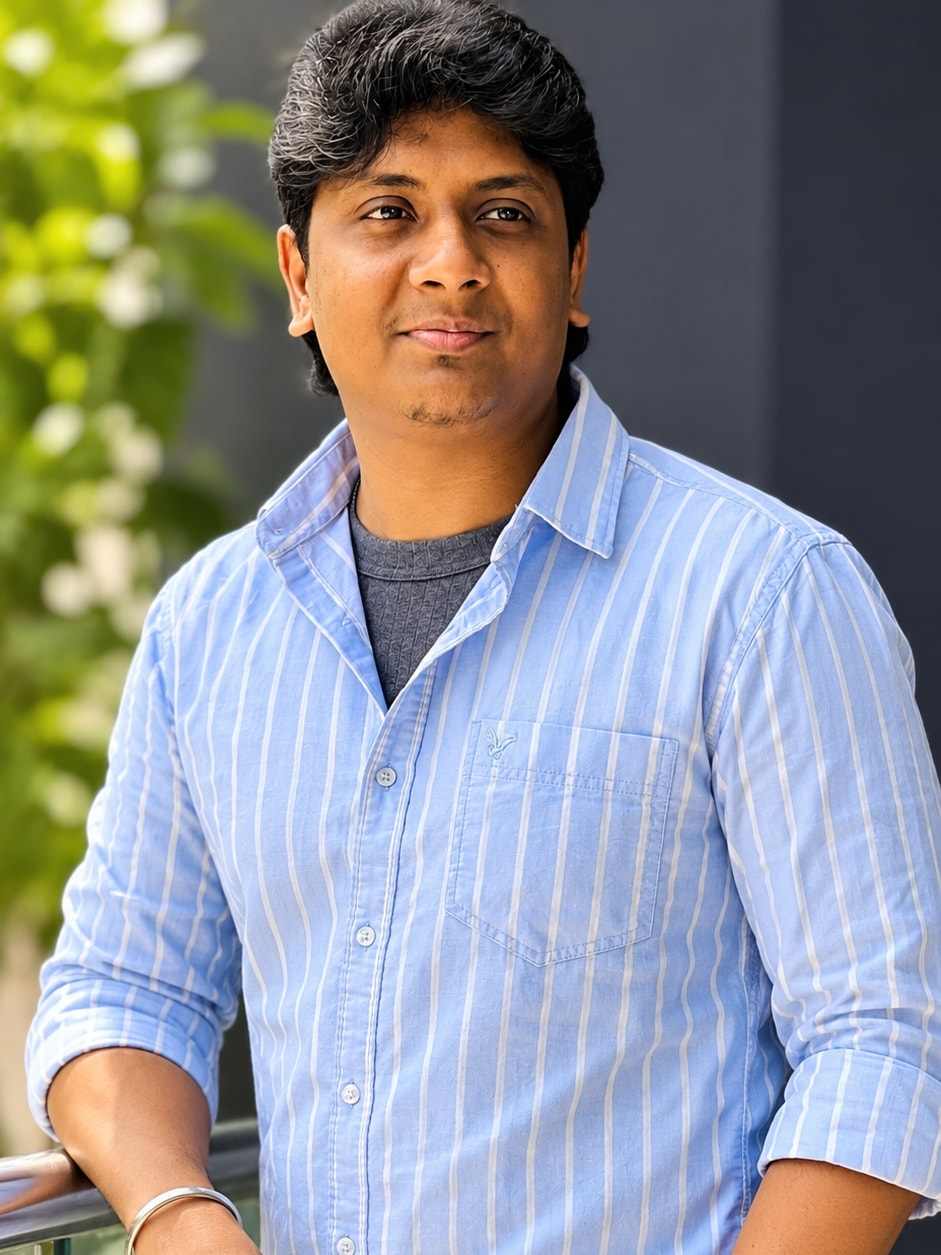
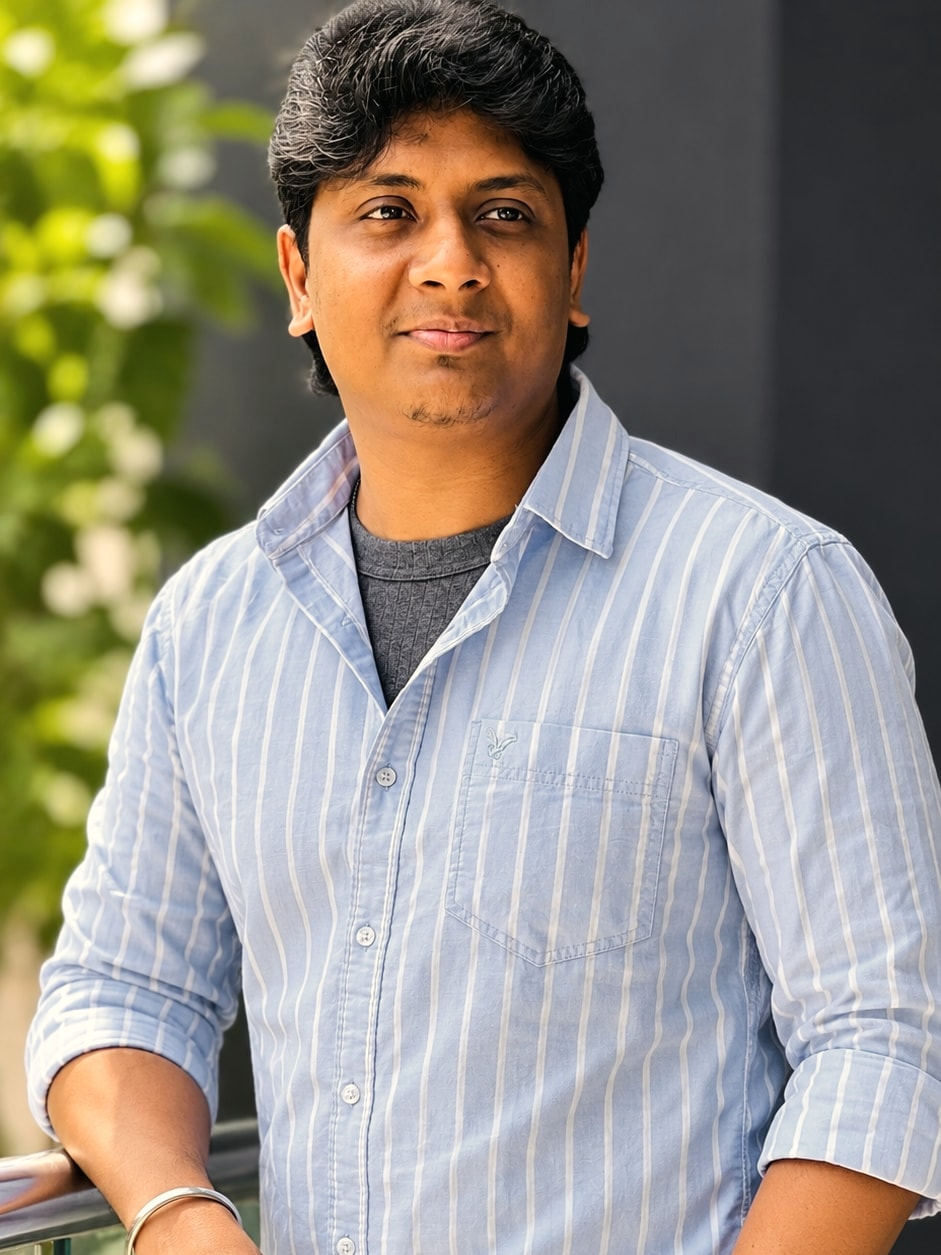
Polish: distinct light theme, serif accents, graded photo, fewer repeats
- Light theme gets its own look: sand hero with the photo in a tall
  card, white case-study cards, crimson contact panel and footer.
  Dark keeps the full-bleed deep green hero.
- Every section heading pairs a bold phrase with one Instrument Serif
  italic accent in crimson; bold headings are a touch lighter and less
  tight.
- Photo colour-graded only (blues softened, slight warmth, shadows
  toward the deep green); no retouching.
- Removed repeats: the second copy of the photo (now a journey card,
  Chennai to Phnom Penh to Chennai), the motto under How I work, the
  rating in the Toast Now card, the iOS skill chips, the hackathon line
  in Experience, and extra Get in touch / Copy email buttons.

Changed region(s): [[0.0308, 0.3108, 1.0, 1.0]]

diff --git a/src/styles/site.css b/src/styles/site.css
@@ -409,6 +409,7 @@ button {
 }
 .greeting {
   font-family: var(--serif);
+  font-style: italic;
   font-size: clamp(1.6rem, 2.6vw, 2.2rem);
   color: var(--accent-on-deep);
   line-height: 1.1;
@@ -419,9 +420,9 @@ button {
 .hero h1 .t {
   display: block;
   font-size: clamp(3.4rem, 8.6vw, 7.6rem);
-  font-weight: 700;
-  line-height: 0.95;
-  letter-spacing: -0.05em;
+  font-weight: 650;
+  line-height: 0.96;
+  letter-spacing: -0.042em;
 }
 .hero h1 .t > span {
   display: inline-block;
@@ -578,9 +579,9 @@ button {
 .head h2 .big {
   display: block;
   font-size: clamp(2.3rem, 4.8vw, 3.8rem);
-  font-weight: 700;
-  line-height: 1.05;
-  letter-spacing: -0.045em;
+  font-weight: 650;
+  line-height: 1.06;
+  letter-spacing: -0.038em;
 }
 .head .side {
   padding-top: 8px;
@@ -1467,9 +1468,8 @@ button {
   line-height: 0.95;
   letter-spacing: -0.06em;
 }
-.contact h2 .big .serif {
+.contact h2 .big .accent {
   color: var(--accent-on-deep);
-  font-size: 1.04em;
 }
 .contact .lead {
   margin-top: 24px;
@@ -1512,6 +1512,244 @@ footer .wrap {
   padding-top: 24px;
   padding-bottom: 34px;
   border-top: 1px solid rgba(255, 255, 255, 0.08);
+}
+
+/* Serif italic accent phrase inside headings */
+.accent {
+  font-family: var(--serif);
+  font-style: italic;
+  font-weight: 400;
+  font-size: 1.06em;
+  letter-spacing: -0.01em;
+  color: var(--accent-text);
+}
+.case .accent,
+.contact .accent {
+  color: var(--accent-on-deep);
+}
+
+/* Journey card (About) */
+.tile.journey {
+  grid-row: span 2;
+  min-height: 520px;
+  background: var(--deep);
+  border-color: transparent;
+  color: #f4f2ec;
+}
+.tile.journey .kicker {
+  color: var(--accent-on-deep);
+}
+.tile.journey .fig {
+  margin-top: 6px;
+  align-items: baseline;
+}
+.tile.journey .unit {
+  margin-left: 0.25em;
+  font-size: 0.32em;
+  font-weight: 500;
+  letter-spacing: 0;
+}
+.path {
+  margin-top: auto;
+  padding-left: 22px;
+  border-left: 1px solid rgba(244, 242, 236, 0.18);
+}
+.path li {
+  position: relative;
+  display: grid;
+  grid-template-columns: 64px 1fr;
+  gap: 12px;
+  padding: 14px 0;
+}
+.path li::before {
+  content: "";
+  position: absolute;
+  left: -27px;
+  top: 22px;
+  width: 9px;
+  height: 9px;
+  border-radius: 50%;
+  background: var(--deep);
+  box-shadow: inset 0 0 0 2px var(--accent-on-deep);
+}
+.path li:last-child::before {
+  background: var(--accent-on-deep);
+}
+.path time {
+  font-family: var(--serif);
+  font-size: 1.35rem;
+  line-height: 1.1;
+  color: var(--accent-on-deep);
+}
+.path b {
+  display: block;
+  font-weight: 700;
+}
+.path span {
+  font-size: 0.9rem;
+  color: rgba(244, 242, 236, 0.76);
+}
+@media (max-width: 980px) {
+  .tile.journey {
+    grid-column: span 2;
+    grid-row: auto;
+    min-height: 0;
+  }
+}
+@media (max-width: 600px) {
+  .tile.journey {
+    grid-column: auto;
+  }
+}
+
+/* Light theme: its own look, not just a recolour.
+   Sand hero with the photo in a tall card, white case cards, crimson contact. */
+[data-shown="light"] .top {
+  color: var(--ink);
+}
+[data-shown="light"] .top.scrolled {
+  background: rgba(247, 245, 240, 0.88);
+  box-shadow: 0 1px 0 var(--line);
+}
+[data-shown="light"] .top nav a {
+  color: var(--muted);
+}
+[data-shown="light"] .top nav a:hover,
+[data-shown="light"] .top nav a.active {
+  color: var(--ink);
+}
+[data-shown="light"] .top nav a::after {
+  background: var(--accent);
+}
+[data-shown="light"] .logo sup {
+  color: var(--accent);
+}
+[data-shown="light"] .theme {
+  border-color: var(--line-strong);
+  color: var(--ink);
+}
+[data-shown="light"] .theme:hover {
+  background: var(--panel);
+}
+[data-shown="light"] .top .pill.light {
+  background: var(--ink);
+  color: #ffffff;
+}
+[data-shown="light"] .hero {
+  background: #ece6db;
+  color: var(--ink);
+}
+[data-shown="light"] .hero::before {
+  background: radial-gradient(55% 60% at 85% 20%, rgba(163, 28, 27, 0.1), transparent 70%);
+}
+[data-shown="light"] .hero-photo {
+  inset: 112px max(clamp(20px, 4.5vw, 56px), calc((100% - 1240px) / 2 + 56px)) 150px auto;
+  width: min(36%, 460px);
+  border-radius: 30px;
+  overflow: hidden;
+  box-shadow: 0 40px 80px -40px rgba(6, 17, 12, 0.45);
+}
+[data-shown="light"] .hero-photo img {
+  -webkit-mask-image: none;
+  mask-image: none;
+}
+[data-shown="light"] .hero-inner {
+  grid-template-columns: minmax(0, 1fr);
+  max-width: 58%;
+  gap: 28px;
+}
+[data-shown="light"] .greeting {
+  color: var(--accent);
+}
+[data-shown="light"] .hero-side p,
+[data-shown="light"] .services p {
+  color: var(--muted);
+}
+[data-shown="light"] .services b span,
+[data-shown="light"] .copied {
+  color: var(--accent);
+}
+@media (max-width: 900px) {
+  [data-shown="light"] .hero-photo {
+    position: relative;
+    inset: auto;
+    width: auto;
+    height: auto;
+    margin: 100px clamp(20px, 4.5vw, 56px) 0;
+    aspect-ratio: 4 / 4.6;
+  }
+  [data-shown="light"] .hero-inner {
+    max-width: none;
+    padding-top: 32px;
+  }
+}
+[data-shown="light"] .case {
+  background: var(--card);
+  color: var(--ink);
+  border: 1px solid var(--line);
+}
+[data-shown="light"] .case.alt {
+  background: var(--panel);
+  border-color: transparent;
+}
+[data-shown="light"] .case::before {
+  background: radial-gradient(50% 70% at 100% 0%, rgba(163, 28, 27, 0.08), transparent 70%);
+}
+[data-shown="light"] .case .year,
+[data-shown="light"] .case .meta dt span,
+[data-shown="light"] .case .accent {
+  color: var(--accent);
+}
+[data-shown="light"] .case .intro {
+  color: var(--ink);
+}
+[data-shown="light"] .case .points li {
+  color: var(--muted);
+  border-color: var(--line);
+}
+[data-shown="light"] .case .points li::before {
+  background: var(--accent);
+}
+[data-shown="light"] .case .meta {
+  border-color: var(--line);
+}
+[data-shown="light"] .case .meta dd {
+  color: var(--muted);
+}
+[data-shown="light"] .case .pill.light {
+  background: var(--ink);
+  color: #ffffff;
+}
+[data-shown="light"] .contact,
+[data-shown="light"] footer {
+  background: var(--accent);
+}
+[data-shown="light"] .contact::before {
+  background: radial-gradient(50% 70% at 90% 10%, rgba(255, 255, 255, 0.14), transparent 70%);
+}
+[data-shown="light"] .contact .label,
+[data-shown="light"] .contact h2 .big .accent {
+  color: #ffe9e4;
+}
+[data-shown="light"] .contact .lead {
+  color: rgba(255, 255, 255, 0.86);
+}
+[data-shown="light"] .contact .mail:hover {
+  border-color: #ffffff;
+}
+[data-shown="light"] .contact .pill:not(.ghost) {
+  background: #ffffff;
+  color: var(--accent);
+}
+[data-shown="light"] .contact .pill:not(.ghost) .arrow {
+  background: var(--accent);
+  color: #ffffff;
+}
+[data-shown="light"] footer {
+  color: rgba(255, 255, 255, 0.82);
+}
+[data-shown="light"] footer .wrap {
+  border-color: rgba(255, 255, 255, 0.16);
 }
 
 /* Entrance (JS only) */

diff --git a/src/data/profile.ts b/src/data/profile.ts
@@ -31,6 +31,24 @@ export const hero = {
   ],
 };
 
+// Section headings: a bold phrase plus one serif-italic accent phrase.
+export const headings = {
+  about: { label: "Behind the apps", plain: "Building apps that keep working", accent: "when the Wi-Fi doesn't" },
+  work: { label: "Selected work", plain: "Apps restaurants run on,", accent: "online or off" },
+  awards: { label: "Hackathons and recognition", plain: "Proud moments at", accent: "Toast hackathons" },
+  apps: { label: "My own apps", plain: "Built and shipped on", accent: "my own time" },
+  how: { label: "How I work", plain: "Built to last,", accent: "not just to demo" },
+  experience: { label: "Experience", plain: "12+ years,", accent: "two countries" },
+  skills: { label: "Skills", plain: "The", accent: "toolkit" },
+};
+
+// The About card that replaces a second copy of the photo.
+export const journey = [
+  { year: "2014", place: "Chennai", what: "iOS developer" },
+  { year: "2016", place: "Phnom Penh", what: "iOS team lead, then mobile team lead" },
+  { year: "2020", place: "Chennai", what: "Senior engineer, xtraCHEF by Toast" },
+];
+
 // Plain text names, no logos.
 export const companies = ["xtraCHEF by Toast", "SkyBooking", "Nanita Tech", "Casperon Technologies", "JEMS Nets Solutions"];
 
